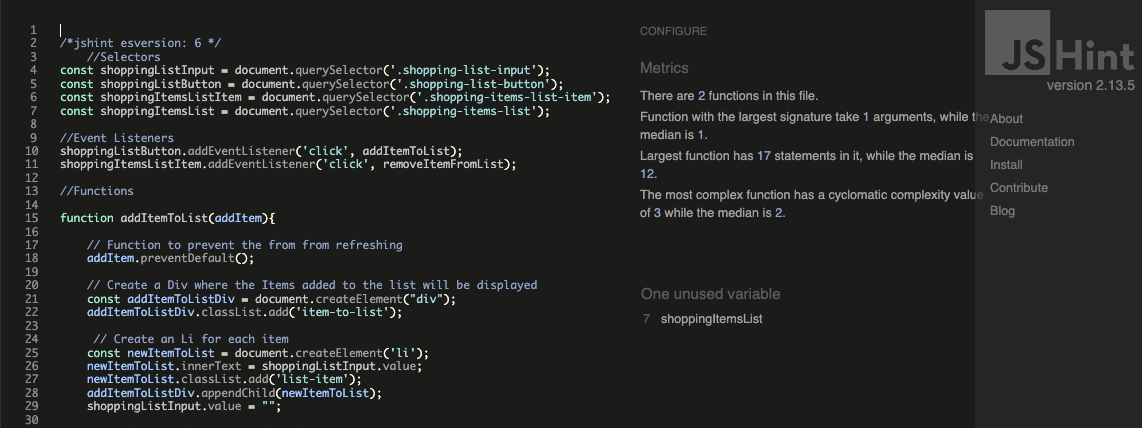
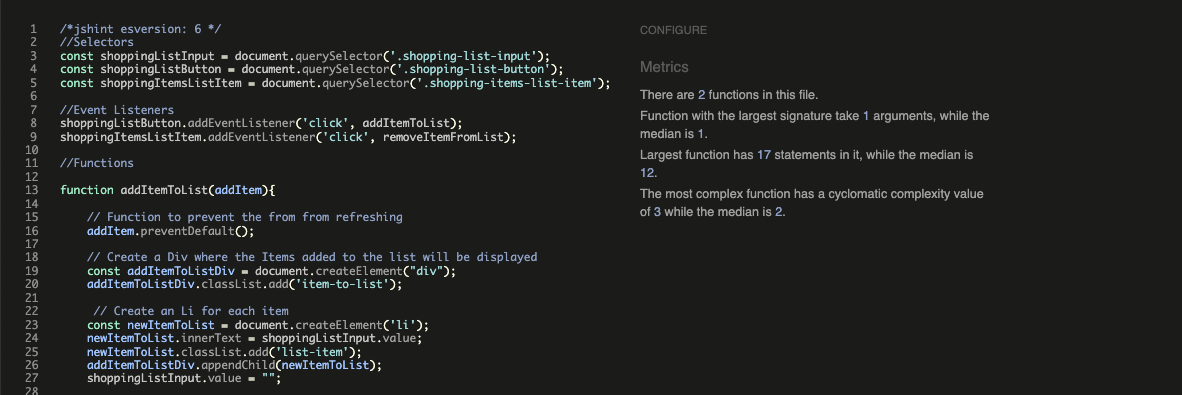
Add jshint validations to the readme.md file

diff --git a/assets/js/list.js b/assets/js/list.js
@@ -1,8 +1,8 @@
+/*jshint esversion: 6 */
 //Selectors
 const shoppingListInput = document.querySelector('.shopping-list-input');
 const shoppingListButton = document.querySelector('.shopping-list-button');
 const shoppingItemsListItem = document.querySelector('.shopping-items-list-item');
-const shoppingItemsList = document.querySelector('.shopping-items-list');
 
 //Event Listeners
 shoppingListButton.addEventListener('click', addItemToList);

diff --git a/assets/js/game.js b/assets/js/game.js
@@ -96,6 +96,9 @@
             };
         
         const resetGame = function () {
+
+            let isGameOver = false;
+
             reset.addEventListener("click", function(){
                     isGameOver = false;
                     mScore = 0;

diff --git a/assets/js/form.js b/assets/js/form.js
@@ -1,4 +1,4 @@
-
+/*jshint esversion: 6 */
 /* This function is to connect the form with EmailJS */
 const sendFormButton = document.getElementById("submit-button");
 

diff --git a/README.md b/README.md
@@ -243,7 +243,7 @@ This was resolved by trial and error reviewing the js code. The arrey that was b
     </details>
 
 * Accessibility
-    *  No errors were found when passing the site pages through the [official accessability](https://wave.webaim.org/)  
+    *  No errors were found when passing the site pages through the [official accessability](https://wave.webaim.org/)
     <details><summary>Game</summary>
     <img src="docs/readme.md/testing/wave_index.png">
     </details>
@@ -262,7 +262,6 @@ This was resolved by trial and error reviewing the js code. The arrey that was b
 
 * Performance
     * The performance was tested in lighthouse on the chrome browser on all pages.
-
     <details><summary>Game</summary>
     <img src="docs/readme.md/testing/index.html_lighthouse_checker.png">
     </details>
